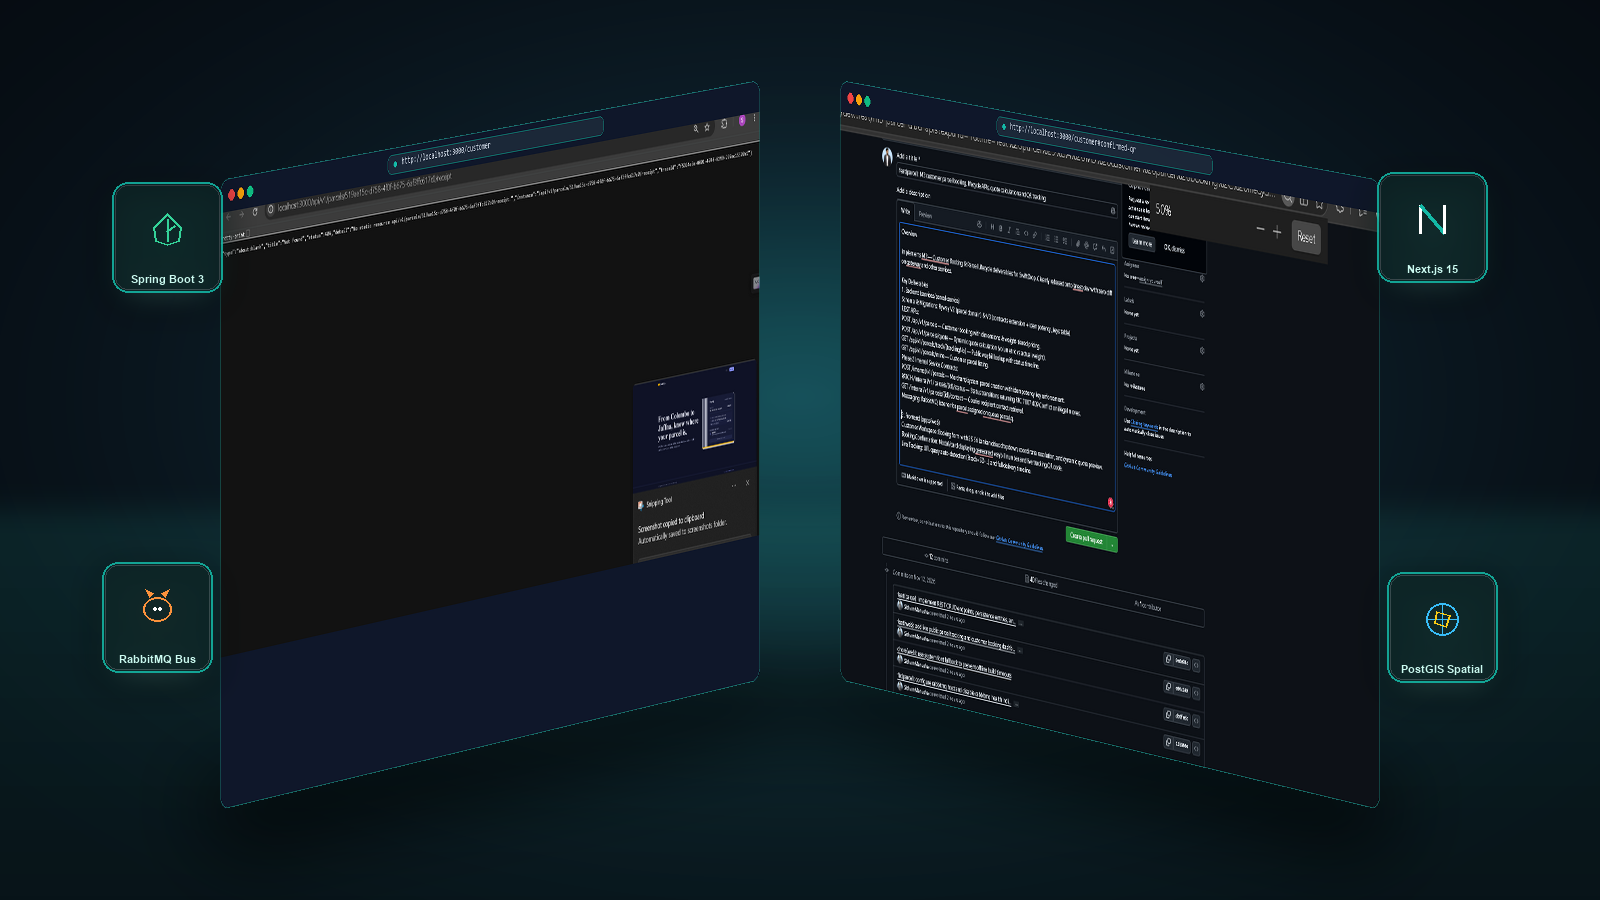
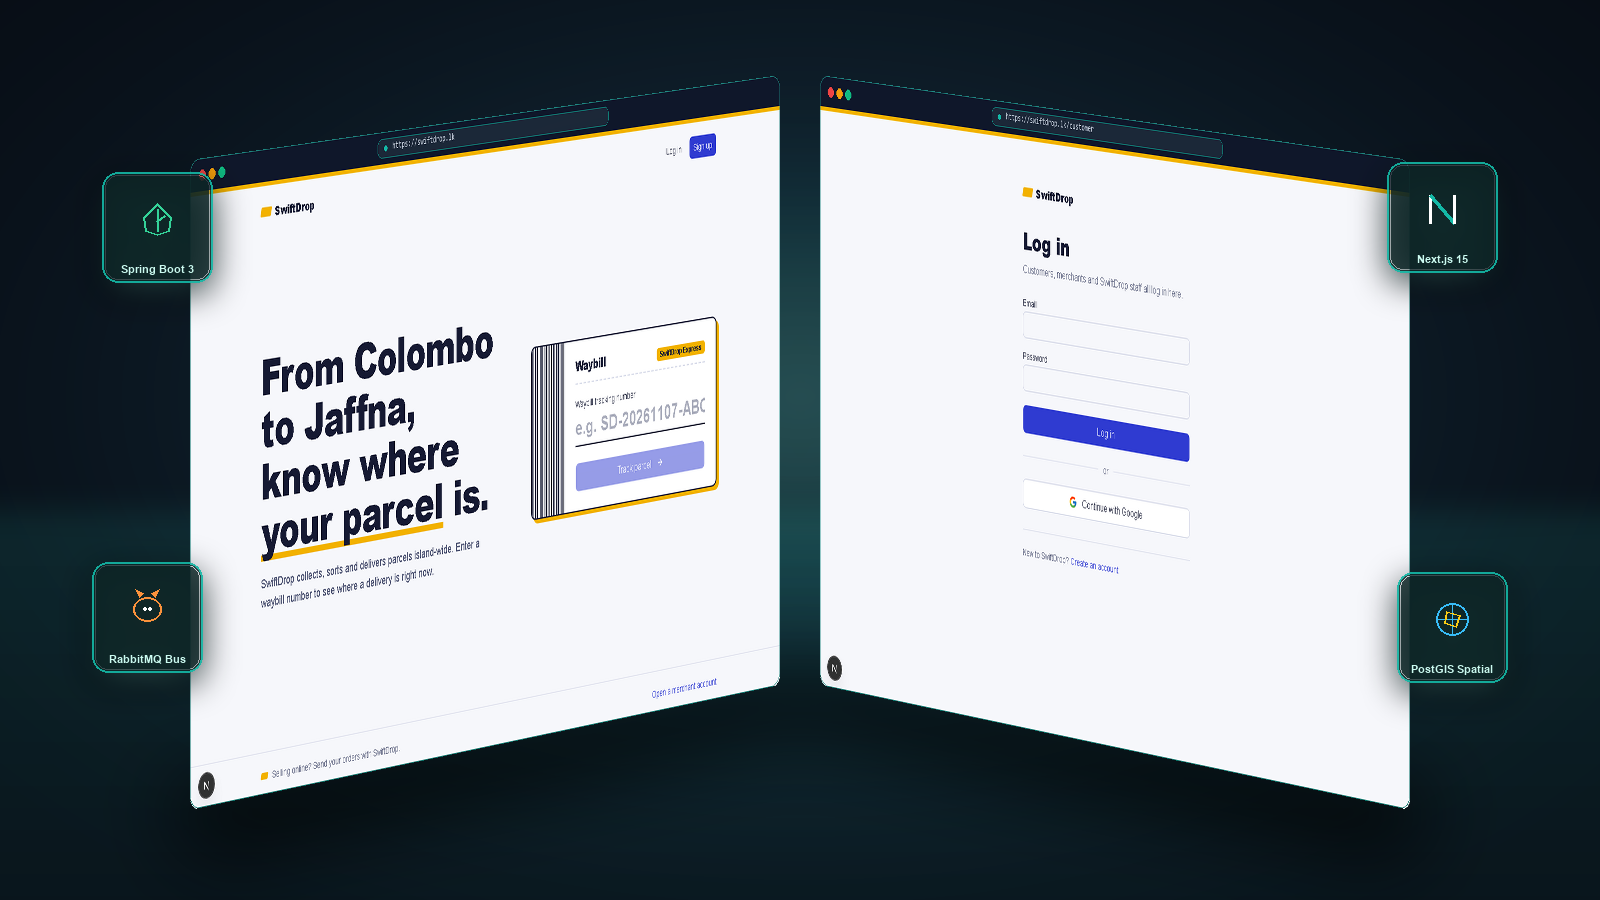
feat(showcase): update SwiftDrop 3D showcase with authentic live home screen and customer booking view

diff --git a/src/App.tsx b/src/App.tsx
@@ -911,7 +911,7 @@ const projectDetailsData: Record<string, ProjectDetails> = {
       tables: ["parcels", "parcel_status_history", "idempotency_keys", "delivery_zones", "zone_pricing_rules", "outbox_events"],
       description: "PostgreSQL schema with PostGIS polygon geometry for delivery zones, foreign key integrity on status history, and transactional outbox event storage."
     },
-    image: "/swiftdrop_3d_showcase.png?v=3d",
+    image: "/swiftdrop_3d_showcase.png?v=home3d",
     github: "https://github.com/RJSoori/SwiftDrop"
   }
 };
@@ -1608,7 +1608,7 @@ const projectsData: ProjectItem[] = [
       'Dynamic Quoting & PostGIS Spatial Rules: Implemented volumetric pricing algorithms (L×W×H/5000) and point-in-polygon zone lookups across 25 Sri Lankan cities with automated fallback base rates.',
       'Live SVG QR Tracking & Outbox Relay: Developed automated QR code generation in Next.js 15, public mobile tracking screens, and transactional outbox event publishing to RabbitMQ topic exchanges.'
     ],
-    image: '/swiftdrop_3d_showcase.png?v=3d',
+    image: '/swiftdrop_3d_showcase.png?v=home3d',
     alt: 'SwiftDrop Enterprise Microservices Courier & Logistics Platform 3D Interface Showcase',
     tags: ['Java 21', 'Spring Boot 3.5', 'Next.js 15', 'TypeScript', 'PostgreSQL (PostGIS)', 'RabbitMQ', 'Docker Compose', 'JUnit 5', 'Vitest', 'Tailwind CSS'],
     githubUrl: 'https://github.com/RJSoori/SwiftDrop',
